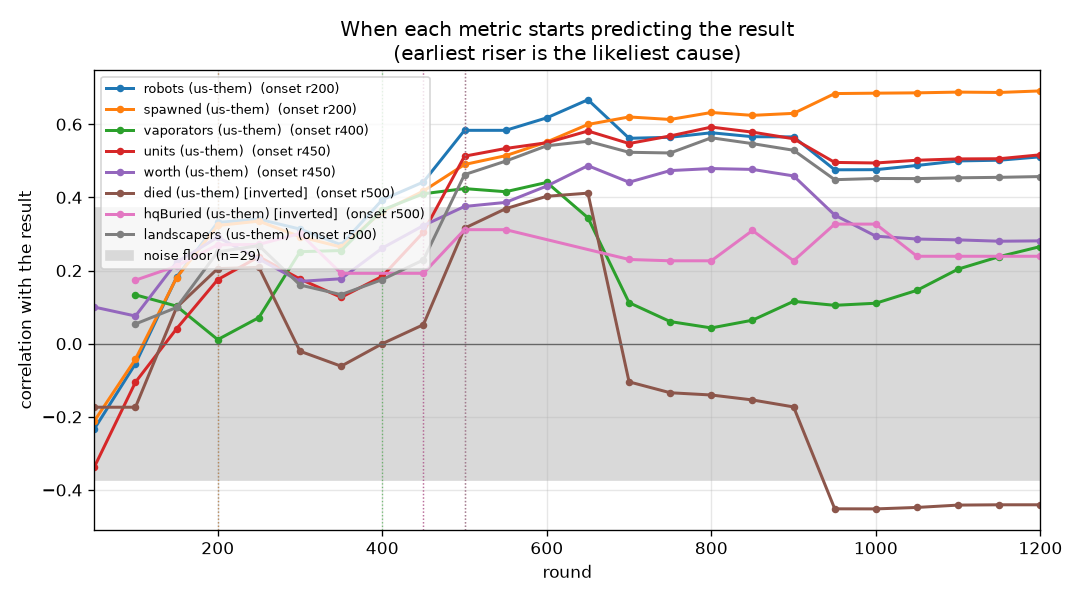
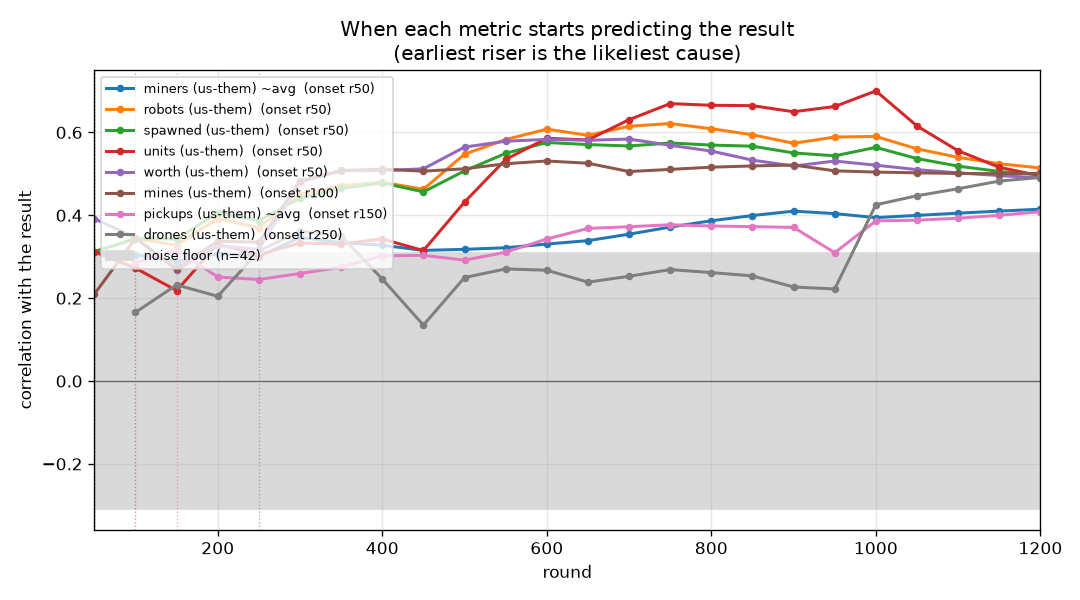
Study and onset files for blocks 74-75; ONSET-merged for g_iter7 (288 games)
Claude-Session: https://claude.ai/code/session_015tNyF5ucwWW1mudpEQTT25

diff --git a/progress/ONSET-merged.md b/progress/ONSET-merged.md
@@ -1,6 +1,6 @@
-# Which metric starts predicting the result first -- every recorded block of g_iter6 merged
+# Which metric starts predicting the result first -- every recorded block of g_iter7 merged
 
-786 games, 458 wins. Noise floor about 0.07; a correlation inside that band is not evidence.
+230 games, 122 wins. Noise floor about 0.13; a correlation inside that band is not evidence.
 
 Every metric is oriented so **higher is better for us**, so a positive correlation always means
 "this being better goes with winning". `~avg` is the running mean over all rounds so far rather than
@@ -12,46 +12,46 @@ See `progress/METRICS.md` for how each quantity is computed.
 
 | onset | anti | metric | peak corr | r100 | r200 | r300 | r400 | r600 | r900 |
 |---|---|---|---|---|---|---|---|---|---|
-| r150 | - | worth (us-them) | +0.44 | +0.18 | +0.36 | +0.41 | +0.41 | +0.44 | +0.40 |
-| r200 | - | mines (us-them) | +0.40 | +0.14 | +0.31 | +0.35 | +0.36 | +0.37 | +0.38 |
-| r200 | - | robots (us-them) | +0.52 | +0.13 | +0.33 | +0.41 | +0.42 | +0.46 | +0.50 |
-| r200 | - | spawned (us-them) | +0.52 | +0.13 | +0.33 | +0.39 | +0.40 | +0.43 | +0.49 |
-| r200 | - | worth (us-them) ~avg | +0.45 | +0.15 | +0.32 | +0.38 | +0.41 | +0.44 | +0.45 |
-| r250 | - | spawned (us-them) ~avg | +0.52 | +0.08 | +0.25 | +0.34 | +0.39 | +0.43 | +0.47 |
-| r300 | - | mines (us-them) ~avg | +0.40 | +0.11 | +0.25 | +0.32 | +0.35 | +0.37 | +0.39 |
-| r300 | - | robots (us-them) ~avg | +0.55 | +0.08 | +0.25 | +0.35 | +0.40 | +0.46 | +0.51 |
-| r300 | - | units (us-them) | +0.53 | +0.09 | +0.25 | +0.33 | +0.34 | +0.41 | +0.49 |
-| r350 | - | landscapers (us-them) | +0.58 | -0.07 | +0.18 | +0.26 | +0.34 | +0.49 | +0.56 |
-| r400 | - | units (us-them) ~avg | +0.53 | +0.07 | +0.19 | +0.27 | +0.32 | +0.40 | +0.47 |
-| r500 | - | landscapers (us-them) ~avg | +0.59 | -0.07 | +0.09 | +0.16 | +0.24 | +0.41 | +0.56 |
-| r550 | - | digs (us-them) | +0.59 | -0.08 | +0.04 | +0.12 | +0.19 | +0.39 | +0.55 |
-| r550 | - | dirtDeps (us-them) | +0.58 | -0.06 | +0.05 | +0.10 | +0.16 | +0.38 | +0.54 |
-| r550 | - | pickups (us-them) | +0.37 | +0.12 | +0.15 | +0.19 | +0.26 | +0.32 | +0.30 |
-| r650 | - | pickups (us-them) ~avg | +0.37 | +0.12 | +0.17 | +0.19 | +0.23 | +0.29 | +0.32 |
-| r700 | - | digs (us-them) ~avg | +0.53 | -0.08 | +0.01 | +0.06 | +0.12 | +0.25 | +0.44 |
-| r700 | - | dirtDeps (us-them) ~avg | +0.52 | -0.05 | +0.02 | +0.05 | +0.10 | +0.23 | +0.43 |
-| r1200 | - | cov (us-them) | +0.30 | -0.09 | -0.04 | +0.08 | +0.12 | +0.21 | +0.25 |
-| - | - | aba (us-them) [inverted] | -0.21 | +0.02 | -0.01 | +0.01 | +0.01 | -0.00 | -0.09 |
-| - | - | aba (us-them) [inverted] ~avg | -0.11 | -0.00 | -0.00 | +0.01 | +0.01 | +0.01 | -0.03 |
-| - | - | cov (us-them) ~avg | +0.26 | -0.07 | -0.06 | +0.01 | +0.06 | +0.15 | +0.21 |
-| - | - | died (us-them) [inverted] | +0.16 | -0.06 | +0.03 | +0.09 | +0.11 | +0.16 | -0.00 |
-| - | - | died (us-them) [inverted] ~avg | +0.17 | -0.06 | -0.00 | +0.08 | +0.11 | +0.17 | +0.07 |
-| - | - | drones (us-them) | +0.29 | +0.20 | +0.20 | +0.14 | +0.08 | +0.10 | +0.16 |
-| - | - | drones (us-them) ~avg | +0.24 | +0.20 | +0.24 | +0.22 | +0.15 | +0.12 | +0.13 |
+| r250 | - | robots (us-them) | +0.45 | +0.04 | +0.24 | +0.34 | +0.35 | +0.44 | +0.43 |
+| r250 | - | spawned (us-them) | +0.44 | +0.04 | +0.23 | +0.32 | +0.32 | +0.40 | +0.43 |
+| r300 | - | worth (us-them) | +0.39 | +0.06 | +0.24 | +0.32 | +0.31 | +0.38 | +0.32 |
+| r350 | - | robots (us-them) ~avg | +0.45 | +0.00 | +0.16 | +0.27 | +0.33 | +0.40 | +0.44 |
+| r400 | - | spawned (us-them) ~avg | +0.43 | +0.00 | +0.16 | +0.25 | +0.30 | +0.37 | +0.41 |
+| r400 | - | worth (us-them) ~avg | +0.36 | +0.04 | +0.18 | +0.26 | +0.30 | +0.35 | +0.35 |
+| r450 | - | units (us-them) | +0.53 | +0.02 | +0.17 | +0.28 | +0.28 | +0.41 | +0.49 |
+| r500 | - | landscapers (us-them) | +0.50 | -0.06 | +0.11 | +0.16 | +0.20 | +0.38 | +0.49 |
+| r500 | - | mines (us-them) | +0.38 | +0.02 | +0.22 | +0.27 | +0.30 | +0.34 | +0.38 |
+| r500 | - | units (us-them) ~avg | +0.49 | -0.00 | +0.11 | +0.21 | +0.26 | +0.36 | +0.45 |
+| r550 | - | mines (us-them) ~avg | +0.37 | -0.01 | +0.15 | +0.22 | +0.27 | +0.32 | +0.35 |
+| r650 | - | digs (us-them) | +0.47 | -0.17 | -0.02 | +0.08 | +0.15 | +0.27 | +0.41 |
+| r650 | - | landscapers (us-them) ~avg | +0.47 | -0.05 | +0.04 | +0.09 | +0.14 | +0.29 | +0.45 |
+| r700 | - | dirtDeps (us-them) | +0.46 | -0.14 | -0.01 | +0.06 | +0.13 | +0.25 | +0.39 |
+| r900 | - | digs (us-them) ~avg | +0.40 | -0.15 | -0.04 | +0.03 | +0.10 | +0.20 | +0.32 |
+| r950 | - | miners (us-them) | +0.33 | +0.10 | +0.10 | +0.19 | +0.17 | +0.27 | +0.29 |
+| r950 | - | miners (us-them) ~avg | +0.32 | +0.04 | +0.09 | +0.17 | +0.18 | +0.22 | +0.27 |
+| r950 | - | moves (us-them) | +0.35 | -0.01 | +0.00 | +0.09 | +0.11 | +0.19 | +0.29 |
+| r1000 | - | cov (us-them) | +0.33 | +0.05 | +0.03 | +0.13 | +0.14 | +0.22 | +0.28 |
+| r1000 | - | dirtDeps (us-them) ~avg | +0.38 | -0.12 | -0.03 | +0.01 | +0.08 | +0.17 | +0.30 |
+| r1100 | - | drones (us-them) | +0.34 | +0.03 | +0.13 | +0.15 | +0.13 | +0.19 | +0.20 |
+| r1200 | - | moves (us-them) ~avg | +0.30 | +0.02 | +0.01 | +0.08 | +0.10 | +0.15 | +0.23 |
+| - | - | aba (us-them) [inverted] | -0.14 | +0.04 | +0.08 | +0.10 | +0.12 | +0.07 | -0.04 |
+| - | - | aba (us-them) [inverted] ~avg | +0.12 | +0.03 | +0.07 | +0.09 | +0.11 | +0.10 | +0.04 |
+| - | - | cov (us-them) ~avg | +0.27 | +0.05 | +0.04 | +0.09 | +0.12 | +0.16 | +0.22 |
+| - | - | died (us-them) [inverted] | +0.27 | -0.04 | +0.09 | +0.07 | +0.12 | +0.24 | -0.01 |
+| - | - | died (us-them) [inverted] ~avg | +0.21 | -0.07 | +0.08 | +0.12 | +0.12 | +0.19 | +0.07 |
+| - | - | drones (us-them) ~avg | +0.24 | +0.03 | +0.14 | +0.17 | +0.16 | +0.17 | +0.19 |
 | - | - | drowned (us-them) [inverted] | . | . | . | . | . | . | . |
 | - | - | drowned (us-them) [inverted] ~avg | . | . | . | . | . | . | . |
-| - | - | hqBuried (us-them) [inverted] | +0.14 | +0.13 | +0.13 | +0.09 | +0.07 | +0.06 | +0.06 |
-| - | - | hqBuried (us-them) [inverted] ~avg | +0.15 | +0.13 | +0.13 | +0.10 | +0.08 | +0.07 | +0.05 |
-| - | - | miners (us-them) | +0.19 | +0.14 | +0.13 | +0.14 | +0.12 | +0.14 | +0.14 |
-| - | - | miners (us-them) ~avg | +0.22 | +0.10 | +0.13 | +0.16 | +0.16 | +0.16 | +0.18 |
-| - | - | moves (us-them) | +0.30 | +0.02 | +0.04 | +0.13 | +0.17 | +0.19 | +0.23 |
-| - | - | moves (us-them) ~avg | +0.25 | +0.05 | +0.04 | +0.09 | +0.13 | +0.17 | +0.20 |
-| - | - | netguns (us-them) | +0.25 | -0.04 | +0.07 | +0.17 | +0.19 | +0.17 | +0.19 |
-| - | - | netguns (us-them) ~avg | +0.21 | -0.04 | +0.04 | +0.13 | +0.16 | +0.18 | +0.17 |
-| - | - | soup (us-them) | +0.15 | +0.07 | +0.01 | +0.01 | +0.02 | +0.03 | +0.04 |
-| - | - | soup (us-them) ~avg | +0.16 | +0.10 | +0.09 | +0.06 | +0.04 | +0.01 | +0.05 |
-| - | - | vaporators (us-them) | +0.28 | +0.10 | +0.16 | +0.18 | +0.21 | +0.28 | +0.24 |
-| - | - | vaporators (us-them) ~avg | +0.28 | +0.11 | +0.16 | +0.17 | +0.20 | +0.27 | +0.27 |
+| - | - | hqBuried (us-them) [inverted] | +0.16 | +0.12 | +0.12 | +0.16 | +0.07 | +0.12 | +0.15 |
+| - | - | hqBuried (us-them) [inverted] ~avg | +0.19 | +0.12 | +0.14 | +0.10 | +0.10 | +0.19 | +0.18 |
+| - | - | netguns (us-them) | +0.10 | . | -0.03 | +0.02 | +0.08 | +0.09 | +0.03 |
+| - | - | netguns (us-them) ~avg | -0.08 | . | -0.05 | -0.03 | +0.02 | +0.05 | +0.03 |
+| - | - | pickups (us-them) | +0.28 | +0.07 | +0.02 | +0.03 | +0.08 | +0.17 | +0.21 |
+| - | - | pickups (us-them) ~avg | +0.22 | +0.07 | +0.04 | +0.04 | +0.05 | +0.11 | +0.18 |
+| - | - | soup (us-them) | -0.12 | +0.04 | +0.03 | +0.05 | -0.05 | -0.06 | -0.01 |
+| - | - | soup (us-them) ~avg | +0.10 | +0.07 | +0.06 | +0.06 | +0.03 | -0.05 | -0.01 |
+| - | - | vaporators (us-them) | +0.27 | +0.03 | +0.04 | +0.10 | +0.16 | +0.27 | +0.18 |
+| - | - | vaporators (us-them) ~avg | +0.23 | +0.03 | +0.04 | +0.07 | +0.12 | +0.22 | +0.21 |
 
 **Reading it.** Earliest onset is the first place to look: temporal precedence is the one causal hint a
 correlation can honestly give. Late-onset metrics are usually the scoreboard rather than the cause -- by then

diff --git a/progress/ONSET.md b/progress/ONSET.md
@@ -1,6 +1,6 @@
 # Which metric starts predicting the result first
 
-29 games, 14 wins. Noise floor about 0.37; a correlation inside that band is not evidence.
+42 games, 26 wins. Noise floor about 0.31; a correlation inside that band is not evidence.
 
 Every metric is oriented so **higher is better for us**, so a positive correlation always means
 "this being better goes with winning". `~avg` is the running mean over all rounds so far rather than
@@ -12,46 +12,46 @@ See `progress/METRICS.md` for how each quantity is computed.
 
 | onset | anti | metric | peak corr | r100 | r200 | r300 | r400 | r600 | r900 |
 |---|---|---|---|---|---|---|---|---|---|
-| r200 | - | robots (us-them) | +0.67 | -0.05 | +0.33 | +0.31 | +0.39 | +0.62 | +0.57 |
-| r200 | - | spawned (us-them) | +0.69 | -0.04 | +0.32 | +0.29 | +0.36 | +0.55 | +0.63 |
-| r400 | - | robots (us-them) ~avg | +0.53 | -0.14 | +0.16 | +0.24 | +0.31 | +0.42 | +0.52 |
-| r400 | - | vaporators (us-them) | +0.44 | +0.13 | +0.01 | +0.25 | +0.37 | +0.44 | +0.12 |
-| r450 | - | spawned (us-them) ~avg | +0.60 | -0.12 | +0.16 | +0.23 | +0.29 | +0.37 | +0.49 |
-| r450 | - | units (us-them) | +0.59 | -0.11 | +0.18 | +0.18 | +0.18 | +0.55 | +0.56 |
-| r450 | - | vaporators (us-them) ~avg | +0.39 | +0.13 | +0.08 | +0.15 | +0.26 | +0.36 | +0.35 |
-| r450 | - | worth (us-them) | +0.49 | +0.08 | +0.29 | +0.17 | +0.26 | +0.43 | +0.46 |
-| r500 | r950 | died (us-them) [inverted] | -0.45 | -0.17 | +0.21 | -0.02 | +0.00 | +0.40 | -0.17 |
-| r500 | - | hqBuried (us-them) [inverted] | +0.33 | +0.17 | +0.27 | +0.30 | . | . | +0.23 |
-| r500 | - | hqBuried (us-them) [inverted] ~avg | +0.33 | +0.17 | +0.27 | +0.21 | +0.21 | +0.31 | +0.31 |
-| r500 | - | landscapers (us-them) | +0.56 | +0.05 | +0.25 | +0.16 | +0.18 | +0.54 | +0.53 |
-| r600 | - | digs (us-them) | +0.37 | -0.27 | +0.04 | +0.16 | +0.18 | +0.33 | +0.37 |
-| r600 | - | landscapers (us-them) ~avg | +0.44 | +0.03 | +0.18 | +0.17 | +0.18 | +0.31 | +0.43 |
-| r650 | - | dirtDeps (us-them) | +0.35 | -0.01 | +0.11 | +0.13 | +0.15 | +0.29 | +0.35 |
-| r650 | - | mines (us-them) | +0.58 | +0.05 | +0.18 | -0.00 | +0.15 | +0.23 | +0.50 |
-| r650 | - | units (us-them) ~avg | +0.43 | -0.23 | +0.01 | +0.09 | +0.12 | +0.28 | +0.41 |
-| r650 | - | worth (us-them) ~avg | +0.48 | +0.08 | +0.23 | +0.19 | +0.21 | +0.28 | +0.42 |
-| r700 | - | drones (us-them) | +0.31 | -0.02 | -0.04 | -0.12 | -0.01 | +0.24 | +0.29 |
-| r750 | r100 | moves (us-them) | +0.51 | -0.51 | -0.29 | +0.00 | +0.04 | +0.19 | +0.47 |
-| r950 | - | mines (us-them) ~avg | +0.42 | +0.04 | +0.12 | +0.05 | +0.07 | +0.06 | +0.28 |
-| - | r950 | aba (us-them) [inverted] | -0.51 | +0.14 | +0.23 | +0.00 | -0.07 | -0.18 | -0.30 |
-| - | r1100 | aba (us-them) [inverted] ~avg | -0.34 | +0.13 | +0.23 | +0.13 | -0.01 | -0.13 | -0.13 |
-| - | - | cov (us-them) | +0.26 | -0.01 | -0.02 | -0.01 | -0.05 | +0.08 | +0.21 |
-| - | - | cov (us-them) ~avg | -0.14 | -0.07 | -0.03 | -0.02 | -0.03 | -0.07 | -0.04 |
-| - | - | died (us-them) [inverted] ~avg | -0.29 | -0.17 | +0.09 | +0.06 | -0.02 | +0.18 | -0.04 |
-| - | - | digs (us-them) ~avg | +0.30 | -0.27 | -0.03 | +0.07 | +0.13 | +0.21 | +0.25 |
-| - | - | dirtDeps (us-them) ~avg | +0.26 | -0.01 | +0.06 | +0.07 | +0.11 | +0.17 | +0.22 |
-| - | - | drones (us-them) ~avg | -0.09 | -0.02 | -0.02 | -0.08 | -0.09 | -0.00 | +0.04 |
+| r50 | - | miners (us-them) ~avg | +0.41 | +0.31 | +0.31 | +0.35 | +0.33 | +0.33 | +0.41 |
+| r50 | - | robots (us-them) | +0.62 | +0.34 | +0.39 | +0.45 | +0.48 | +0.61 | +0.57 |
+| r50 | - | robots (us-them) ~avg | +0.60 | +0.38 | +0.41 | +0.45 | +0.48 | +0.54 | +0.59 |
+| r50 | - | spawned (us-them) | +0.58 | +0.34 | +0.41 | +0.44 | +0.48 | +0.58 | +0.55 |
+| r50 | - | spawned (us-them) ~avg | +0.57 | +0.38 | +0.42 | +0.45 | +0.47 | +0.52 | +0.55 |
+| r50 | - | units (us-them) | +0.70 | +0.27 | +0.33 | +0.33 | +0.34 | +0.59 | +0.65 |
+| r50 | - | units (us-them) ~avg | +0.64 | +0.34 | +0.33 | +0.35 | +0.36 | +0.46 | +0.59 |
+| r50 | - | worth (us-them) | +0.58 | +0.35 | +0.33 | +0.48 | +0.51 | +0.58 | +0.52 |
+| r50 | - | worth (us-them) ~avg | +0.56 | +0.38 | +0.34 | +0.43 | +0.48 | +0.56 | +0.56 |
+| r100 | - | mines (us-them) | +0.53 | +0.34 | +0.34 | +0.48 | +0.51 | +0.53 | +0.52 |
+| r100 | - | mines (us-them) ~avg | +0.52 | +0.33 | +0.34 | +0.45 | +0.49 | +0.52 | +0.52 |
+| r150 | - | pickups (us-them) ~avg | +0.41 | +0.29 | +0.25 | +0.26 | +0.30 | +0.34 | +0.37 |
+| r250 | - | drones (us-them) | +0.49 | +0.17 | +0.20 | +0.36 | +0.25 | +0.27 | +0.23 |
+| r250 | - | drones (us-them) ~avg | +0.42 | +0.17 | +0.24 | +0.35 | +0.34 | +0.28 | +0.27 |
+| r300 | - | miners (us-them) | +0.52 | +0.22 | +0.30 | +0.34 | +0.28 | +0.37 | +0.52 |
+| r300 | - | vaporators (us-them) | +0.51 | -0.13 | +0.03 | +0.33 | +0.42 | +0.50 | +0.41 |
+| r400 | - | pickups (us-them) | +0.46 | +0.29 | +0.19 | +0.20 | +0.34 | +0.40 | +0.34 |
+| r400 | - | vaporators (us-them) ~avg | +0.48 | -0.13 | -0.01 | +0.18 | +0.33 | +0.48 | +0.45 |
+| r500 | - | landscapers (us-them) | +0.72 | +0.08 | +0.20 | +0.11 | +0.22 | +0.59 | +0.68 |
+| r550 | - | died (us-them) [inverted] | +0.35 | . | -0.20 | +0.06 | +0.03 | +0.34 | +0.18 |
+| r550 | - | landscapers (us-them) ~avg | +0.65 | +0.08 | +0.13 | +0.14 | +0.18 | +0.39 | +0.60 |
+| r600 | - | cov (us-them) | +0.39 | +0.10 | +0.02 | +0.11 | +0.12 | +0.30 | +0.34 |
+| r650 | - | digs (us-them) | +0.66 | -0.03 | +0.06 | +0.03 | +0.08 | +0.26 | +0.52 |
+| r650 | - | dirtDeps (us-them) | +0.65 | -0.01 | +0.08 | +0.04 | +0.09 | +0.24 | +0.51 |
+| r700 | - | died (us-them) [inverted] ~avg | +0.35 | . | -0.25 | -0.06 | +0.01 | +0.26 | +0.27 |
+| r800 | - | moves (us-them) | +0.47 | -0.14 | -0.16 | -0.03 | +0.03 | +0.19 | +0.36 |
+| r850 | - | digs (us-them) ~avg | +0.52 | -0.03 | +0.04 | +0.01 | +0.05 | +0.15 | +0.35 |
+| r900 | - | dirtDeps (us-them) ~avg | +0.51 | -0.01 | +0.06 | +0.02 | +0.06 | +0.14 | +0.33 |
+| r1050 | - | moves (us-them) ~avg | +0.37 | -0.16 | -0.14 | -0.08 | -0.03 | +0.09 | +0.24 |
+| r1200 | - | cov (us-them) ~avg | +0.30 | +0.07 | +0.07 | +0.05 | +0.08 | +0.19 | +0.29 |
+| - | r1050 | aba (us-them) [inverted] | -0.41 | +0.08 | -0.02 | +0.10 | +0.12 | -0.04 | -0.22 |
+| - | - | aba (us-them) [inverted] ~avg | -0.25 | +0.03 | +0.00 | +0.04 | +0.10 | +0.02 | -0.11 |
 | - | - | drowned (us-them) [inverted] | . | . | . | . | . | . | . |
 | - | - | drowned (us-them) [inverted] ~avg | . | . | . | . | . | . | . |
-| - | - | miners (us-them) | -0.34 | -0.22 | -0.22 | +0.10 | -0.00 | +0.24 | +0.12 |
-| - | r50 | miners (us-them) ~avg | -0.34 | -0.33 | -0.26 | -0.10 | -0.05 | -0.10 | +0.03 |
-| - | r100 | moves (us-them) ~avg | -0.46 | -0.46 | -0.39 | -0.16 | -0.05 | +0.01 | +0.17 |
-| - | - | netguns (us-them) | +0.24 | . | +0.24 | -0.11 | -0.08 | -0.01 | -0.10 |
-| - | - | netguns (us-them) ~avg | +0.24 | . | +0.24 | -0.02 | -0.07 | -0.05 | -0.06 |
-| - | - | pickups (us-them) | +0.28 | +0.17 | +0.05 | -0.15 | -0.06 | +0.19 | +0.26 |
-| - | - | pickups (us-them) ~avg | +0.17 | +0.17 | +0.06 | -0.07 | -0.08 | +0.05 | +0.14 |
-| - | r400 | soup (us-them) | -0.45 | -0.02 | -0.22 | -0.31 | -0.35 | -0.32 | -0.00 |
-| - | r400 | soup (us-them) ~avg | -0.37 | +0.05 | -0.18 | -0.28 | -0.30 | -0.34 | -0.14 |
+| - | - | hqBuried (us-them) [inverted] | +0.20 | . | +0.20 | . | . | . | . |
+| - | - | hqBuried (us-them) [inverted] ~avg | +0.20 | . | +0.20 | . | . | . | . |
+| - | - | netguns (us-them) | +0.22 | . | -0.03 | +0.06 | +0.16 | +0.19 | +0.12 |
+| - | - | netguns (us-them) ~avg | +0.16 | . | -0.03 | +0.03 | +0.09 | +0.15 | +0.15 |
+| - | - | soup (us-them) | +0.27 | +0.03 | +0.01 | +0.17 | -0.07 | +0.05 | +0.21 |
+| - | - | soup (us-them) ~avg | +0.24 | +0.08 | +0.03 | +0.12 | +0.05 | +0.09 | +0.15 |
 
 **Reading it.** Earliest onset is the first place to look: temporal precedence is the one causal hint a
 correlation can honestly give. Late-onset metrics are usually the scoreboard rather than the cause -- by then
